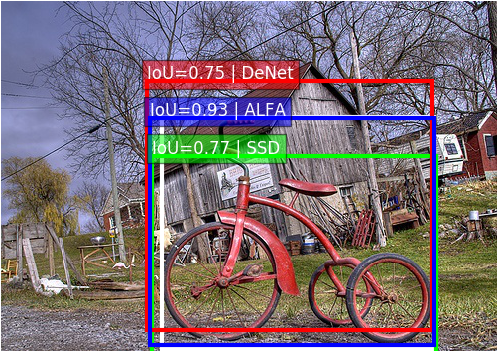
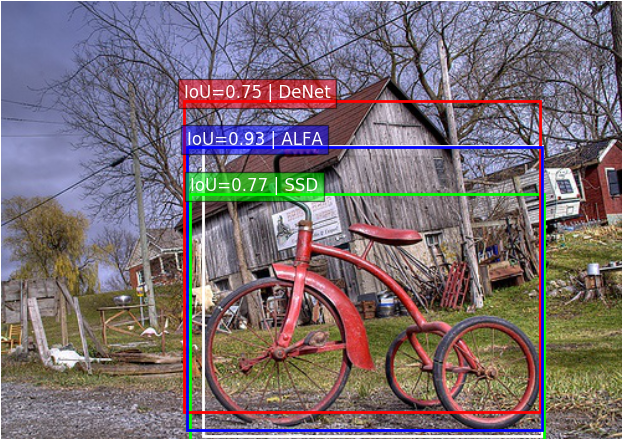
Changing visualization

diff --git a/visualization.py b/visualization.py
@@ -30,7 +30,7 @@ def list_image_sets():
         'tvmonitor']
 
 
-def plt_bboxes_different_detectors(img, classes_dict, scores_dict, iou_dict, bboxes_dict, figsize=(10,10), linewidth=3.0):
+def plt_bboxes_different_detectors(img, classes_dict, scores_dict, iou_dict, bboxes_dict, figsize=(10,10), linewidth=2.0):
     """Visualize bounding boxes. Largely inspired by SSD-MXNET!
     """
     class_names = list_image_sets()
